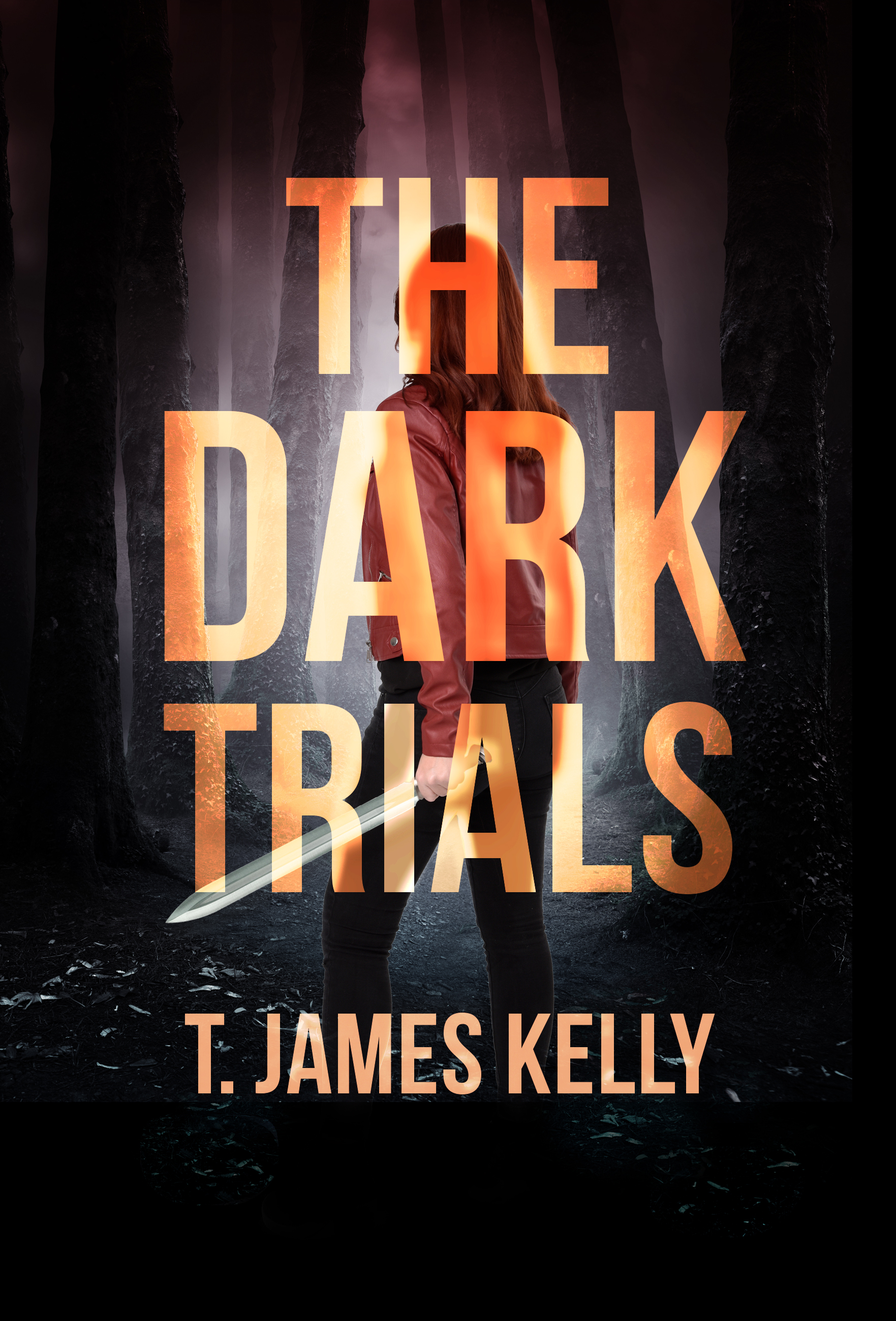
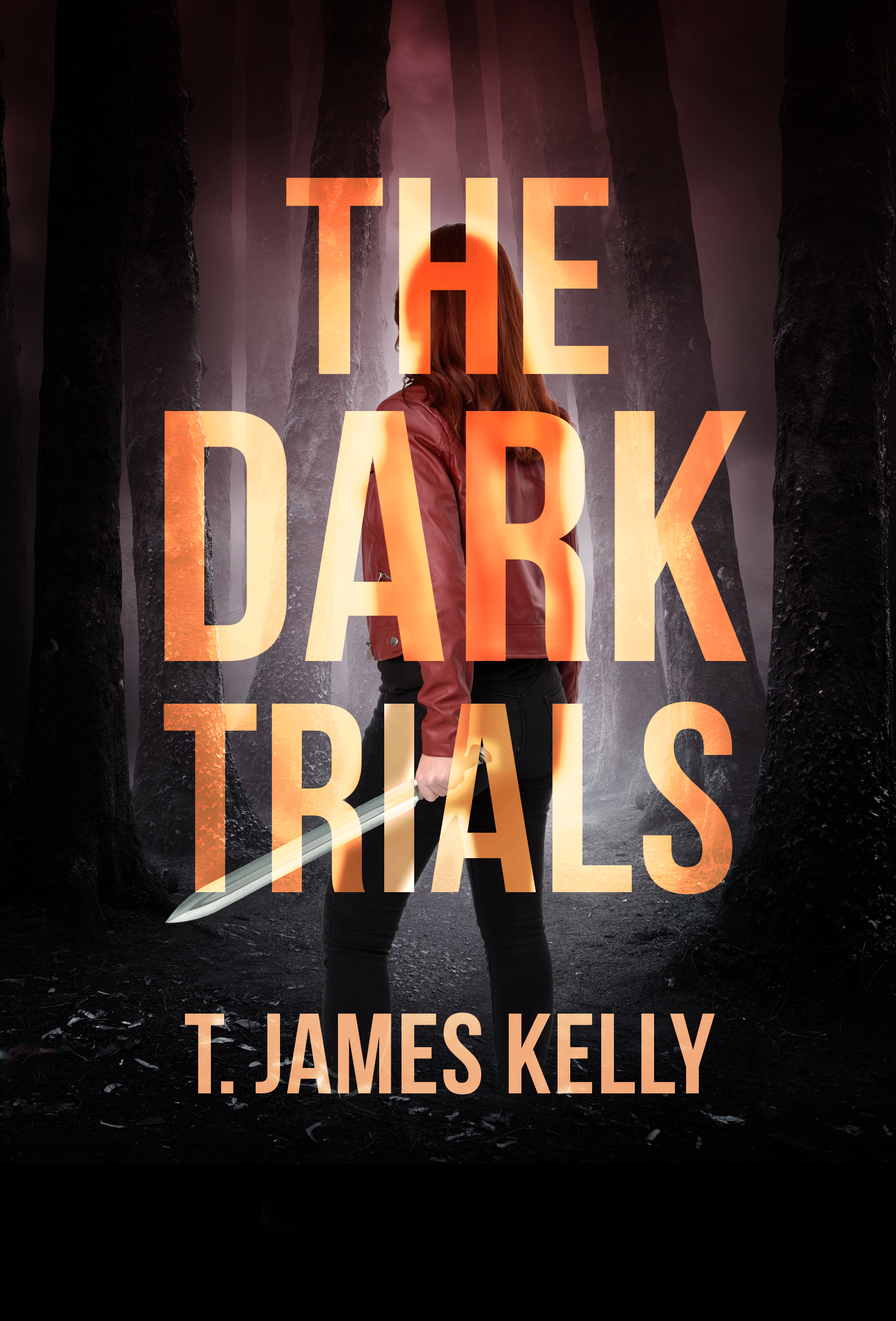
update

diff --git a/src/Components/Main/index.js b/src/Components/Main/index.js
@@ -21,7 +21,7 @@ import Button from 'react-bootstrap/Button'
 
 import Navbar from '../Nav/index'
 import image from '../../images/DarkTrials_WEB.jpg'
-import bgImage from '../../images/bg-img.jpg'
+import bgImage from '../../images/DarkTrials_WEBBackground.jpg'
 
 const list = {
     hidden: { opacity: 0 },
@@ -36,7 +36,7 @@ const list = {
 
 const useStyles = makeStyles({
     root: {
-        width: 427,
+        marginTop: '100px'
       },
       media: {
         maxWidth: '70%',
@@ -69,7 +69,7 @@ export default function Main() {
                     <Container> 
                     
                         
-                    <Row className="align-items-center">
+                    <Row className="align-items-center" style={{marginTop: '100px'}}>
                             <Col lg={5} md={5} className="mt-4 pt-2 pt-sm-0">
                                 <div className="position-relative">
                                     <img src={image} className="rounded img-fluid mx-auto d-block mb-2" alt="" />
@@ -82,32 +82,20 @@ export default function Main() {
                             </Col>
 
                             <Col lg={7} md={7} className="mt-4 pt-2 mt-sm-0 pt-sm-0">
-
-
-                                        <Card className="customer-testi text-center">
-                                            
-                                                <CardContent>
-                                                <h1 className="title-heading main-font">THE DARK TRIALS</h1>
-                                                <p className="text-muted h6">I enjoy hearing from readers, and do my best to read and
+                                                <h1 className="title-heading main-font" style={{color: 'white'}}>THE DARK TRIALS</h1>
+                                                <p className="text-white h4">I enjoy hearing from readers, and do my best to read and
                                                     respond to every message. Drop me a line in the box below. And if you want
                                                     some cool insider updates like title and cover reveals for upcoming books along
 
                                                     with special deals, be sure to connect with me on social media by clicking the
                                                     links at the top of the page. Hope to see you around. – TJ</p>
                                             
-                                                </CardContent>
-                                            </Card>
-                                            <Row>
+                                           
+                                            <Row className="mt-4">
                                             <Col lg={4} sm={false}></Col>
                                             <Col lg={4} sm={12} className="mb-1 mt-2 justify-content-center">
-                                                <Media className="customer-testi m-2" >
-                                                  {/* <img src={review.img} style={{height:65, width:65}} className="avatar avatar-small mr-3 rounded shadow" alt=""/> */}
-                                                  <Media className="content p-3 shadow rounded bg-white position-relative" body>
-                                                      
                                                       <p className="text-muted mt-2">" Here is my review "</p>
-                                                      <h6 className="text-primary">Pino Paladino <small className="text-muted">Bassist</small></h6>
-                                                  </Media>
-                                              </Media>
+                                                      <h6 className="text-primary">Pino Paladino <small className="text-muted">Bassist</small></h6> 
                                               </Col>
                                               <Col lg={4} sm={false}></Col>
                                             </Row>
